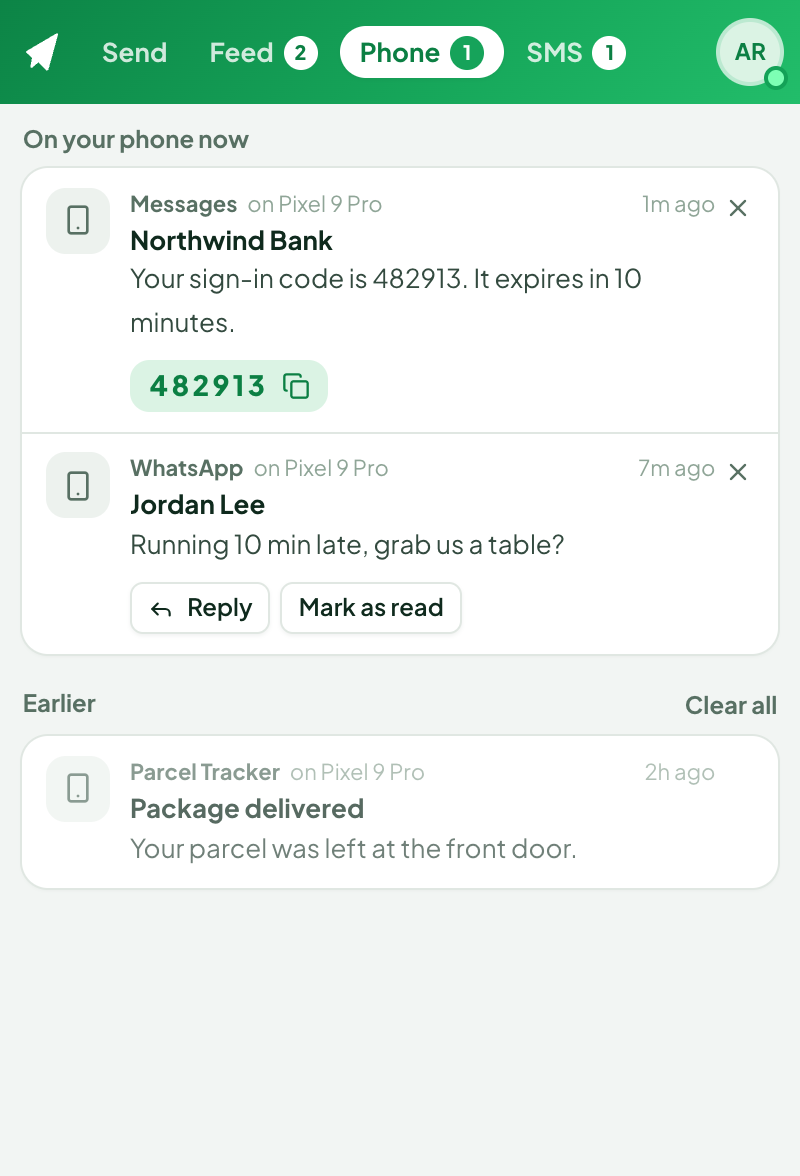
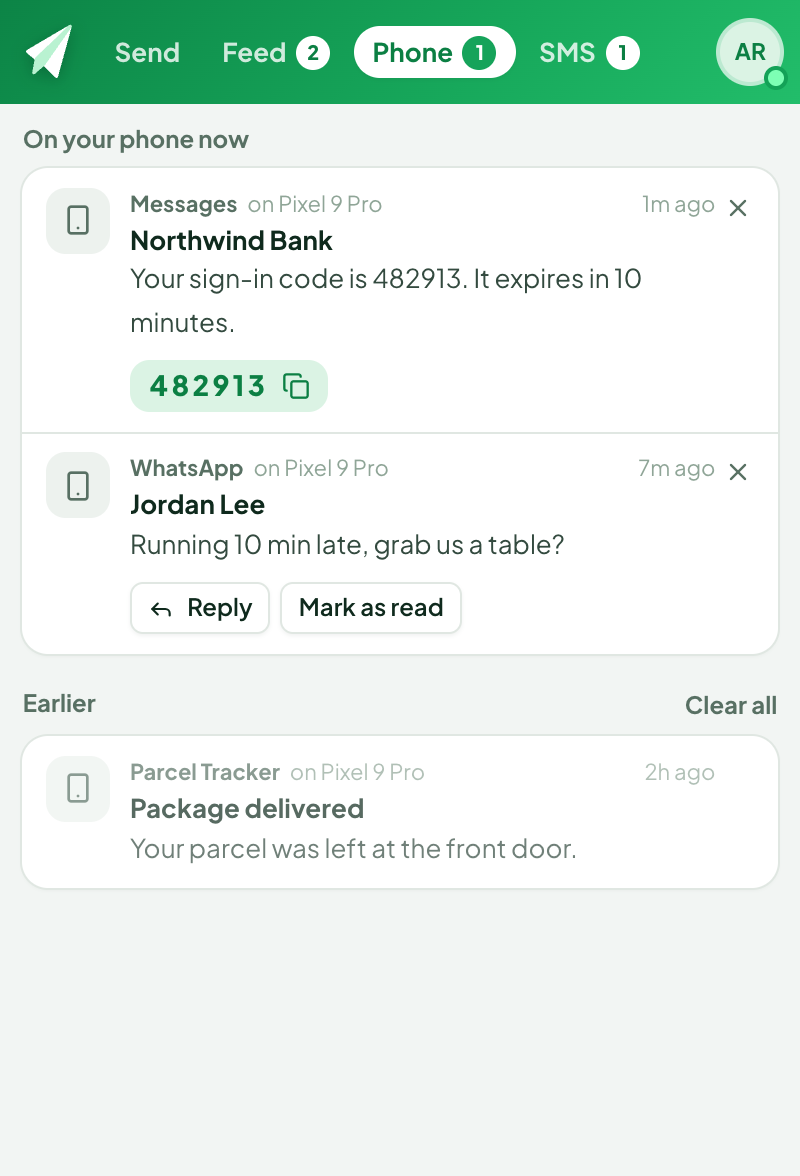
style(ui): white paper-plane mark in the header band
A tile-free plane with a mint fold and a soft shadow, so the brand sits on
the band without competing with the selected tab. Screenshots refreshed.

Changed region(s): [[0.25, 0.0, 0.8125, 0.0918], [0.125, 0.0306, 0.2188, 0.0612], [0.0312, 0.0, 0.0938, 0.0612]]

diff --git a/src/ui/components/Identity.tsx b/src/ui/components/Identity.tsx
@@ -18,11 +18,11 @@ export function Logo({ size = 24, className }: { size?: number; className?: stri
   );
 }
 
-/** The plane on its own, for coloured backgrounds like the header band. */
+/** The plane on its own for coloured backgrounds like the header band: white with a mint fold. */
 export function LogoMark({ size = 22, className }: { size?: number; className?: string }) {
   return (
-    <svg width={size} height={size} viewBox="11 16 100 100" aria-hidden="true" className={className}>
-      <LogoGlyph ink="currentColor" fold="currentColor" foldOpacity={0.6} />
+    <svg width={size} height={size} viewBox="14 18 98 98" aria-hidden="true" className={className}>
+      <LogoGlyph ink="#fff" fold="#B9F2D1" />
     </svg>
   );
 }

diff --git a/src/ui/features/settings/SettingsPage.tsx b/src/ui/features/settings/SettingsPage.tsx
@@ -72,7 +72,7 @@ function SettingsContent() {
     <div className="min-h-screen">
       <header className="bg-band text-on-band">
         <div className="mx-auto flex h-16 max-w-5xl items-center gap-3 px-8">
-          <LogoMark size={22} />
+          <LogoMark size={28} className="drop-shadow-[0_2px_4px_rgba(0,40,20,0.3)]" />
           <p className="text-lg font-extrabold tracking-[-0.02em]">Pushpilot</p>
           <span className="ml-2 rounded-full bg-white/15 px-2.5 py-1 text-2xs font-bold">
             {connection === 'live' ? 'Connected' : connection === 'connecting' ? 'Connecting…' : 'Offline'}

diff --git a/src/ui/app/Header.tsx b/src/ui/app/Header.tsx
@@ -45,7 +45,7 @@ export function Header({
   return (
     <header className="bg-band relative shrink-0 text-on-band">
       <div className="flex h-[52px] items-center gap-1 pl-3.5 pr-2.5">
-        <LogoMark size={20} className="mr-2 shrink-0" />
+        <LogoMark size={28} className="mr-1.5 shrink-0 drop-shadow-[0_2px_4px_rgba(0,40,20,0.3)]" />
         <nav className="flex min-w-0 flex-1 items-center gap-0.5" role="tablist" aria-label="Sections">
           {TABS.filter((t) => t.id !== 'sms' || showSms).map((t) => {
             const on = tab === t.id;
